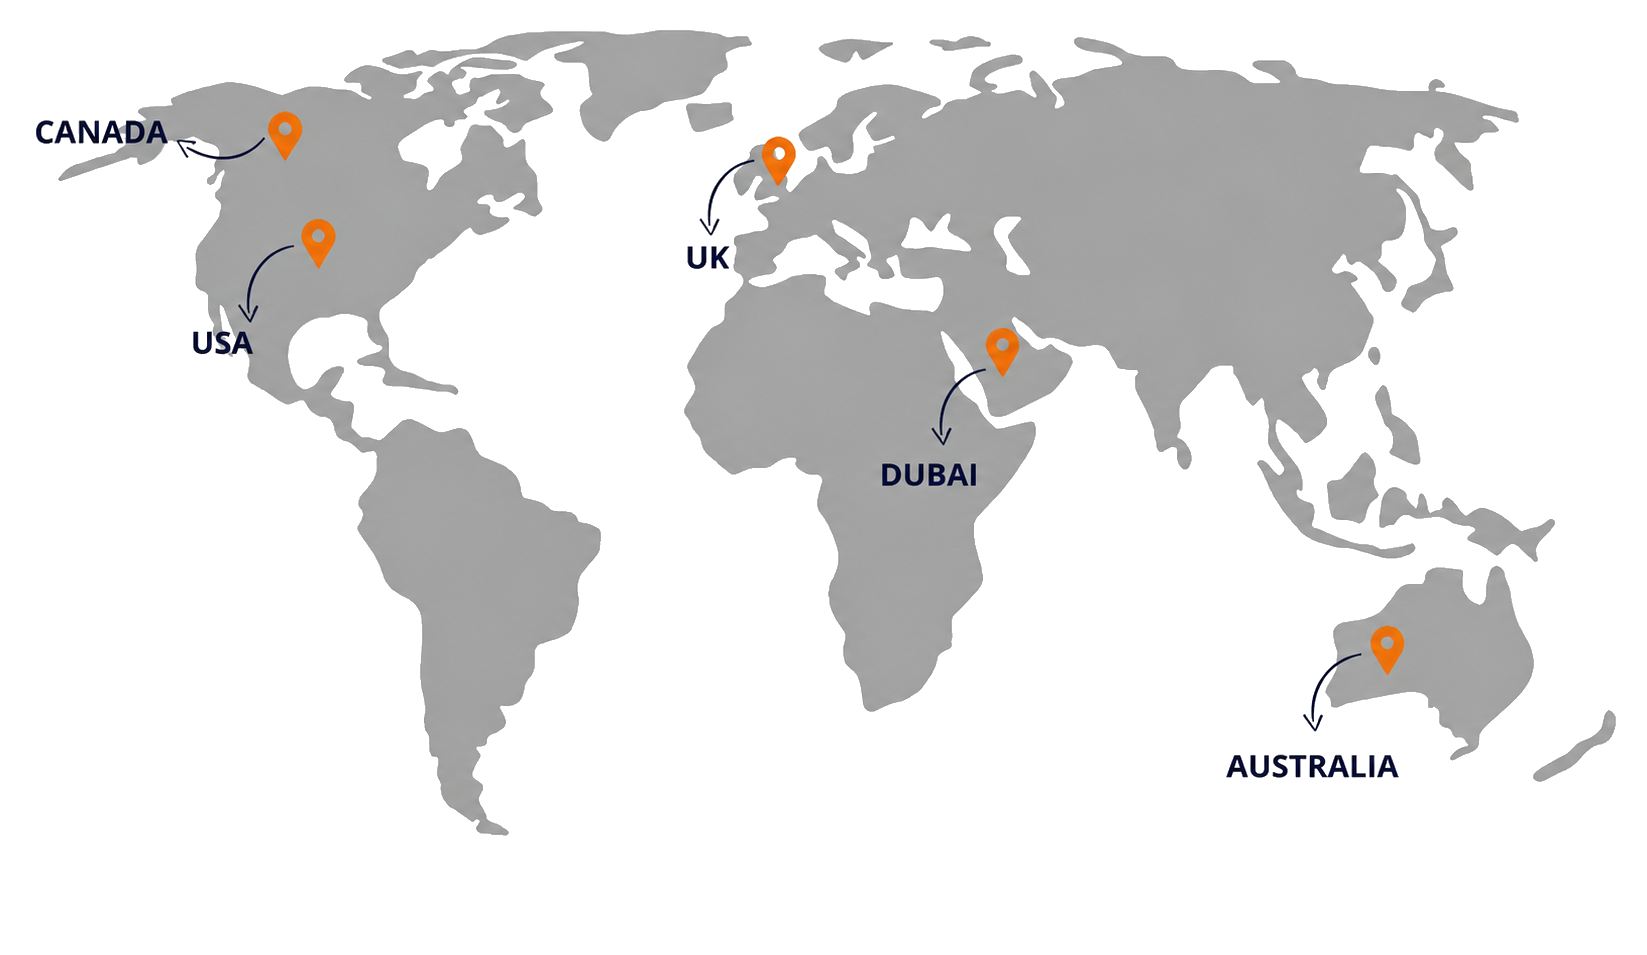
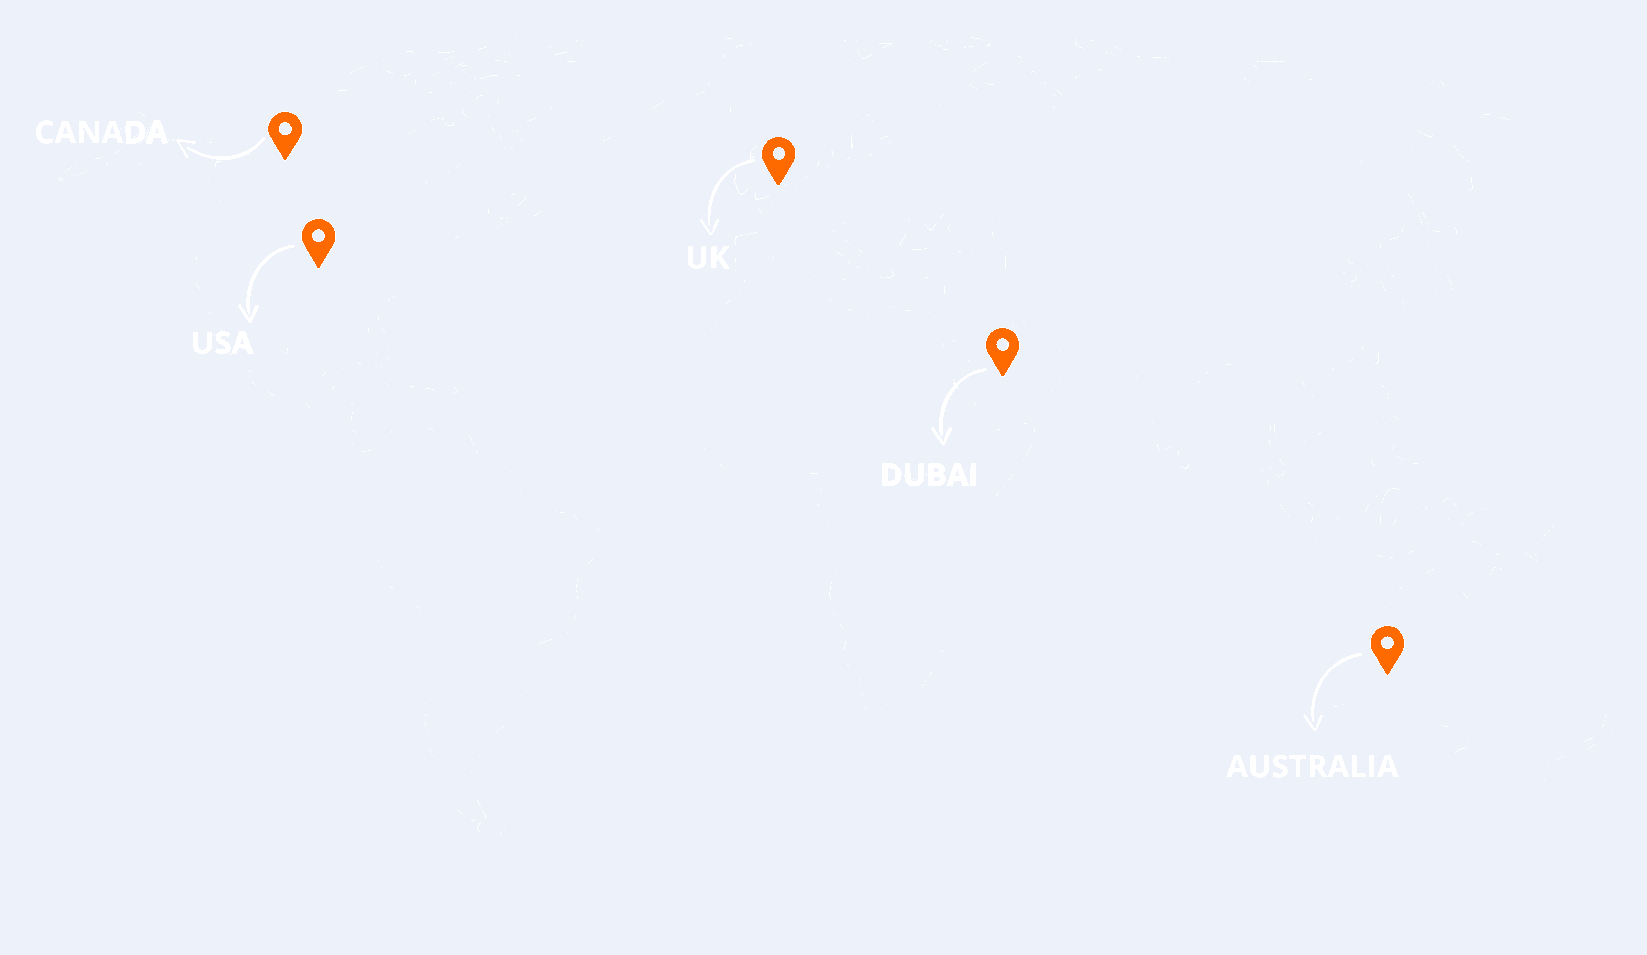
fix(mobile-map-footer): enhance mobile responsive layout, recolor map text for maximum contrast, and update footer address typography

diff --git a/app/page.module.css b/app/page.module.css
@@ -2262,11 +2262,11 @@
 }
 
 /* Positions on the map percentage */
-.beaconCanada { top: 14%; left: 15%; }
-.beaconUsa { top: 45%; left: 14%; }
-.beaconUk { top: 17%; left: 47%; }
-.beaconDubai { top: 36%; left: 63%; }
-.beaconAus { top: 62%; left: 81%; }
+.beaconCanada { top: 13.4%; left: 17.3%; }
+.beaconUsa { top: 23.9%; left: 19.2%; }
+.beaconUk { top: 14.7%; left: 47.3%; }
+.beaconDubai { top: 34.7%; left: 60.8%; }
+.beaconAus { top: 67.7%; left: 84.1%; }
 
 /* ── 5 Global Hub Cards Grid ────────────────────────────────── */
 .globalHubsGrid {
@@ -3447,7 +3447,7 @@
   .heroActions {
     display: flex;
     flex-direction: row;
-    gap: 10px;
+    gap: 12px;
     margin-bottom: 0;
     align-items: center;
     width: 100%;
@@ -3456,23 +3456,30 @@
   .heroBtnPrimary {
     flex: 1;
     justify-content: center;
-    padding: 12px 16px;
-    font-size: clamp(10px, 2.5vw, 12px);
+    padding: 14px 20px;
+    font-size: 13px;
+    font-weight: 800;
     height: auto;
     white-space: nowrap;
     letter-spacing: 0.06em;
-    border-radius: 6px;
+    border-radius: 8px;
+    box-shadow: 0 6px 20px rgba(15, 18, 56, 0.3);
   }
 
   .heroBtnGhost {
     flex: 1;
     justify-content: center;
-    padding: 11px 16px;
-    font-size: clamp(10px, 2.5vw, 12px);
+    padding: 14px 20px;
+    font-size: 13px;
+    font-weight: 800;
     height: auto;
     white-space: nowrap;
     letter-spacing: 0.06em;
-    border-radius: 6px;
+    border-radius: 8px;
+    background: #FFFFFF;
+    color: #0F1238;
+    border: 2px solid #0F1238;
+    box-shadow: 0 4px 14px rgba(0, 0, 0, 0.08);
   }
 
   /* ── 3D Building (Full Width, Middle Section) ── */
@@ -3643,12 +3650,23 @@
   }
 
   /* ── Other section grids ── */
-  .servGrid { grid-template-columns: repeat(2, 1fr); }
+  .servGrid { grid-template-columns: repeat(2, 1fr); gap: 20px; }
   .servGrid > div:last-child { grid-column: 1 / -1; }
   .projGrid { height: auto; grid-template-columns: 1fr; }
-  .projHero { height: 420px; }
-  .projSide { height: auto; grid-template-rows: repeat(3, 260px); }
+  .projHero { height: 380px; }
+  .projSide { height: auto; grid-template-rows: repeat(3, 240px); }
   .ribbonGrid { grid-template-columns: repeat(2, 1fr); }
+
+  /* ── Global Map & Hub Cards Grid on Mobile ── */
+  .globalMapWrap {
+    height: 420px;
+    padding: 16px;
+    border-radius: 20px;
+  }
+  .globalHubsGrid {
+    grid-template-columns: repeat(2, 1fr);
+    gap: 16px;
+  }
 }
 
 /* ── Tablet & Small phone adjustments ── */
@@ -3681,28 +3699,47 @@
   }
 
   .heroSub {
-    font-size: clamp(11px, 2.8vw, 13px);
+    font-size: 13.5px;
+    line-height: 1.6;
     margin-bottom: 16px;
   }
 
   .heroActions {
     flex-direction: column;
-    gap: 8px;
+    gap: 10px;
   }
 
   .heroBtnPrimary,
   .heroBtnGhost {
-    font-size: clamp(9px, 2.4vw, 11px);
-    padding: 10px 14px;
+    font-size: 13px;
+    font-weight: 800;
+    padding: 14px 20px;
+    width: 100%;
   }
 
   .statsBar {
     grid-template-columns: repeat(2, 1fr);
+    gap: 10px;
   }
 
-  .statCell { padding: 16px 6px; }
+  .statCell { padding: 16px 8px; }
+  .statVal { font-size: 22px; font-weight: 900; }
+  .statLabel { font-size: 8.5px; font-weight: 700; }
   .floatingLabels { display: none; }
   .procGrid { grid-template-columns: 1fr; }
+
+  .servGrid { grid-template-columns: 1fr; }
+  .servGrid > div:last-child { grid-column: 1 / 1; }
+
+  .globalMapWrap {
+    height: 360px;
+    padding: 12px;
+  }
+
+  .globalHubsGrid {
+    grid-template-columns: 1fr;
+    gap: 12px;
+  }
 
   /* Scale down badges slightly on small phones */
   .annot {

diff --git a/components/Footer.tsx b/components/Footer.tsx
@@ -67,7 +67,7 @@ export default function Footer() {
           </div>
 
           <div className={styles.address}>
-            <MapPin size={15} strokeWidth={2} style={{ flexShrink: 0, marginTop: 2 }} />
+            <MapPin size={18} strokeWidth={2.2} style={{ flexShrink: 0, marginTop: 2, color: '#FF6B2C' }} />
             <span>9407 NE Vancouver Mall Dr, Vancouver, WA 98662, United States</span>
           </div>
         </div>

diff --git a/components/Footer.module.css b/components/Footer.module.css
@@ -124,11 +124,10 @@
   display: flex;
   align-items: flex-start;
   gap: 12px;
-  font-family: var(--font-mono);
-  font-size: 12px;
-  font-weight: 500;
-  letter-spacing: 0.05em;
-  color: #CBD5E1;
+  font-family: var(--font-body);
+  font-size: 14px;
+  font-weight: 600;
+  color: #FFFFFF;
   line-height: 1.6;
 }
 
